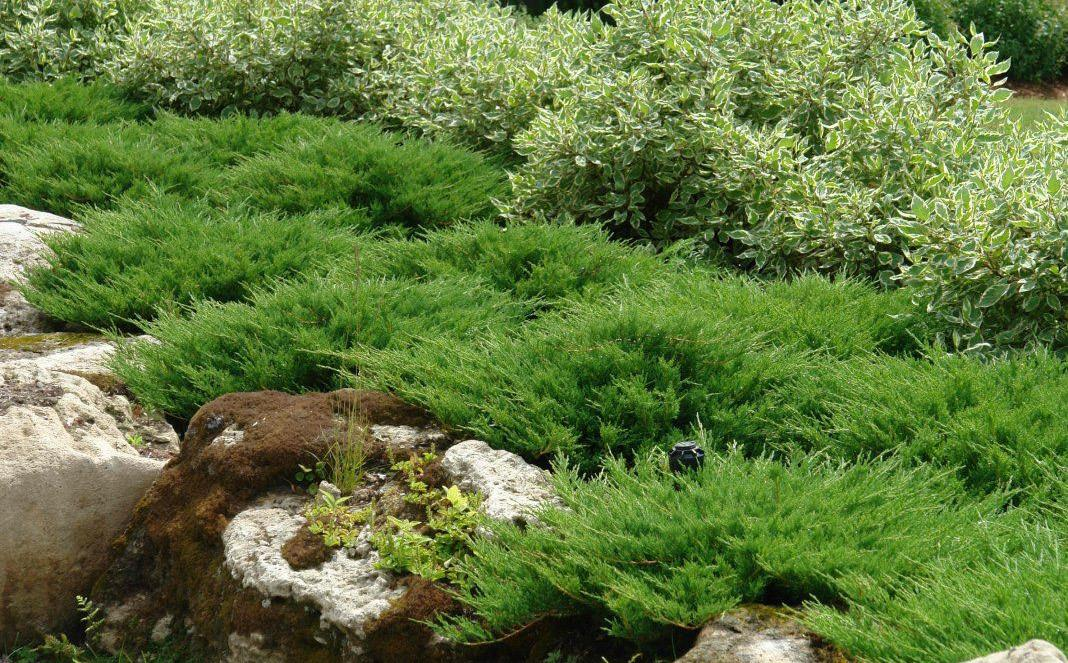
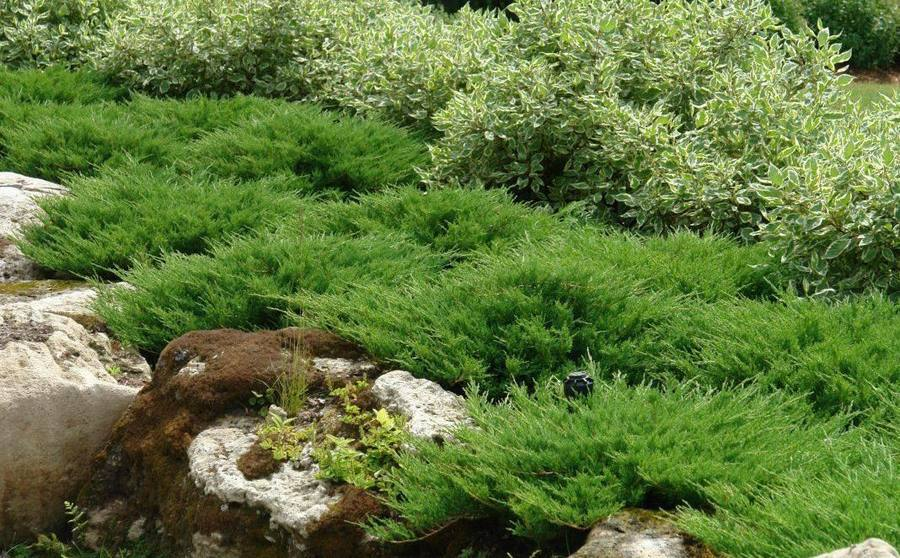
Optimize territory images: compress JPEGs, WebP Unsplash, sizes attr

diff --git a/src/data/static.js b/src/data/static.js
@@ -48,7 +48,7 @@ export const TERRITORY_FEATURES = [
   },
   {
     kind: 'square-image',
-    imageSrc: 'https://images.unsplash.com/photo-1505159940484-eb2b9f2588e2?q=80&w=2070&auto=format&fit=crop',
+    imageSrc: 'https://images.unsplash.com/photo-1505159940484-eb2b9f2588e2?q=75&w=1400&fm=webp&auto=format&fit=crop',
     imageAlt: 'Спокойная гладь Финского залива',
     tag: '02 / Финский залив',
     title: 'Вода рядом',
@@ -64,7 +64,7 @@ export const TERRITORY_FEATURES = [
   },
   {
     kind: 'square-image',
-    imageSrc: 'https://images.unsplash.com/photo-1540555700478-4be289fbecef?q=80&w=1000&auto=format&fit=crop',
+    imageSrc: 'https://images.unsplash.com/photo-1540555700478-4be289fbecef?q=75&w=800&fm=webp&auto=format&fit=crop',
     imageAlt: 'Горячая купель на свежем воздухе',
     tag: '04 / Купели',
     title: 'Подогреваемые купели',

diff --git a/src/pages/Territory.jsx b/src/pages/Territory.jsx
@@ -47,7 +47,10 @@ function TerritoryImageCard({
         loading="lazy"
         decoding="async"
         draggable={false}
-        className={`absolute inset-0 h-full w-full object-cover transition-transform duration-[2s] group-hover:scale-105 ${imageClassName}`}
+        sizes={isWide
+          ? '(max-width: 768px) 100vw, 80vw'
+          : '(max-width: 768px) 100vw, (max-width: 1024px) 50vw, 33vw'}
+        className={`absolute inset-0 h-full w-full object-cover transition-[transform,opacity] duration-[2s] group-hover:scale-105 bg-[#D5D3CC] ${imageClassName}`}
       />
 
       <div
